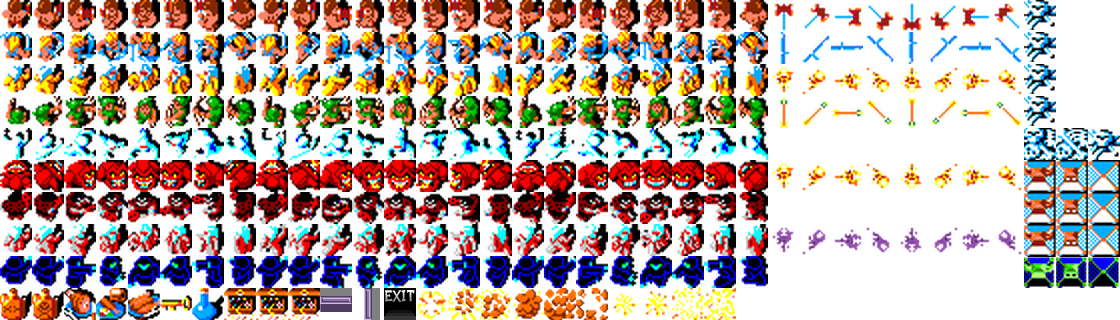
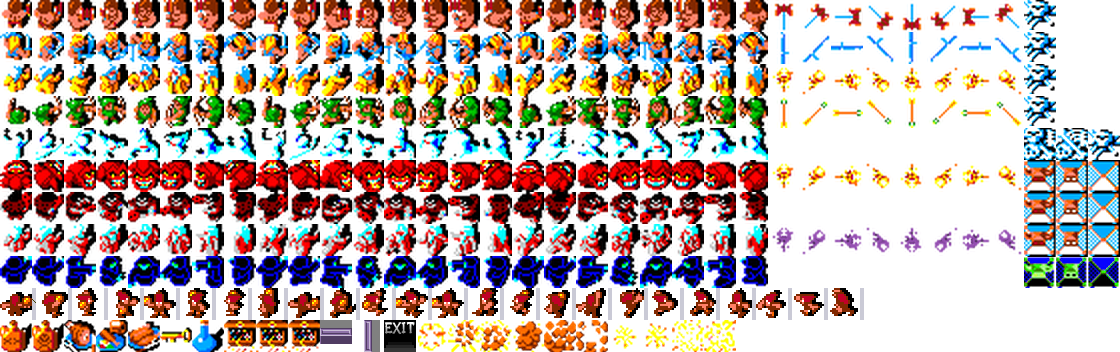
lobber gfx upd 1

diff --git a/js/gauntlet.js b/js/gauntlet.js
@@ -39,27 +39,27 @@ Gauntlet = function() {
         GRUNT:  { sx: 0, sy: 6, frames: 3, fpf: FPS/10, score:  30, health:  8, speed: 120/FPS, damage:  60/FPS, selfharm: 0,      canbeshot: true,  canbehit: true,  invisibility: false,                     travelling: 0.5*FPS, thinking: 0.5*FPS, generator: { health: 16, speed: 3.5*FPS, max: 40, score: 300, sx: 32, sy: 6 }, name: "grunt",  weapon: null                                                                                     },
         WIZARD: { sx: 0, sy: 7, frames: 3, fpf: FPS/10, score:  30, health:  8, speed: 120/FPS, damage:  60/FPS, selfharm: 0,      canbeshot: true,  canbehit: true,  invisibility: { on: 3*FPS, off: 6*FPS }, travelling: 0.5*FPS, thinking: 0.5*FPS, generator: { health: 24, speed: 4.0*FPS, max: 20, score: 400, sx: 32, sy: 7 }, name: "sorcerer", weapon: null                                                                                     },
         DEATH:  { sx: 0, sy: 8, frames: 3, fpf: FPS/10, score: 1000, health: 12, speed: 180/FPS, damage: 120/FPS, selfharm: 6/FPS,  canbeshot: false, canbehit: false, invisibility: false,                     travelling: 0.5*FPS, thinking: 0.5*FPS, generator: { health: 16, speed: 5.0*FPS, max: 10, score: 1000, sx: 32, sy: 8 }, name: "death",  weapon: null                                                                                     },
-        LOBBER: { sx: 0, sy: 7, frames: 3, fpf: FPS/10, score:  10, health:  4, speed: 60/FPS, damage:  40/FPS, selfharm: 0,      canbeshot: true,  canbehit: true,  invisibility: false, travelling: 0.5*FPS, thinking: 0.5*FPS, generator: { health: 8, speed: 2.5*FPS, max: 20, score: 100, sx: 32, sy: 7 }, name: "lobber", weapon: null                                                                                     },
+        LOBBER: { sx: 0, sy: 9, frames: 3, fpf: FPS/10, score:  10, health:  4, speed: 60/FPS, damage:  40/FPS, selfharm: 0,      canbeshot: true,  canbehit: true,  invisibility: false, travelling: 0.5*FPS, thinking: 0.5*FPS, generator: { health: 8, speed: 2.5*FPS, max: 20, score: 100, sx: 32, sy: 7 }, name: "lobber", weapon: null                                                                                     },
         GHOST1:  { sx: 0, sy: 4, frames: 3, fpf: FPS/10, score:  10, health:  4, speed: 140/FPS, damage: 100/FPS, selfharm: 30/FPS, canbeshot: true,  canbehit: false, invisibility: false,                     travelling: 0.5*FPS, thinking: 0.5*FPS, generator: { health:  4, speed: 2.5*FPS, max: 40, score: 50, sx: 34, sy: 4 }, name: "ghost",  weapon: null                                                                                     },
         DEMON1:  { sx: 0, sy: 5, frames: 3, fpf: FPS/10, score:  20, health:  4, speed:  80/FPS, damage:  60/FPS, selfharm: 0,      canbeshot: true,  canbehit: true,  invisibility: false,                     travelling: 0.5*FPS, thinking: 0.5*FPS, generator: { health: 16, speed: 3.0*FPS, max: 40, score: 200, sx: 34, sy: 5 }, name: "demon",  weapon: { speed: 240/FPS, reload: 2*FPS, damage: 10, sx: 24, sy: 5, fpf: FPS/10, monster: true } },
         GRUNT1:  { sx: 0, sy: 6, frames: 3, fpf: FPS/10, score:  30, health:  8, speed: 120/FPS, damage:  60/FPS, selfharm: 0,      canbeshot: true,  canbehit: true,  invisibility: false,                     travelling: 0.5*FPS, thinking: 0.5*FPS, generator: { health: 16, speed: 3.5*FPS, max: 40, score: 300, sx: 34, sy: 6 }, name: "grunt",  weapon: null                                                                                     },
         WIZARD1: { sx: 0, sy: 7, frames: 3, fpf: FPS/10, score:  30, health:  8, speed: 120/FPS, damage:  60/FPS, selfharm: 0,      canbeshot: true,  canbehit: true,  invisibility: { on: 3*FPS, off: 6*FPS }, travelling: 0.5*FPS, thinking: 0.5*FPS, generator: { health: 24, speed: 4.0*FPS, max: 20, score: 400, sx: 34, sy: 7 }, name: "sorcerer", weapon: null                                                                                     },
-        LOBBER1: { sx: 0, sy: 7, frames: 3, fpf: FPS/10, score:  10, health:  4, speed: 60/FPS, damage:  40/FPS, selfharm: 0,      canbeshot: true,  canbehit: true,  invisibility: false, travelling: 0.5*FPS, thinking: 0.5*FPS, generator: { health: 8, speed: 2.5*FPS, max: 20, score: 100, sx: 34, sy: 7 }, name: "lobber", weapon: null                                                                                     },
+        LOBBER1: { sx: 0, sy: 9, frames: 3, fpf: FPS/10, score:  10, health:  4, speed: 60/FPS, damage:  40/FPS, selfharm: 0,      canbeshot: true,  canbehit: true,  invisibility: false, travelling: 0.5*FPS, thinking: 0.5*FPS, generator: { health: 8, speed: 2.5*FPS, max: 20, score: 100, sx: 34, sy: 7 }, name: "lobber", weapon: null                                                                                     },
         GHOST2:  { sx: 0, sy: 4, frames: 3, fpf: FPS/10, score:  10, health:  4, speed: 140/FPS, damage: 100/FPS, selfharm: 30/FPS, canbeshot: true,  canbehit: false, invisibility: false,                     travelling: 0.5*FPS, thinking: 0.5*FPS, generator: { health:  4, speed: 2.5*FPS, max: 40, score: 50, sx: 33, sy: 4 }, name: "ghost",  weapon: null                                                                                     },
         DEMON2:  { sx: 0, sy: 5, frames: 3, fpf: FPS/10, score:  20, health:  4, speed:  80/FPS, damage:  60/FPS, selfharm: 0,      canbeshot: true,  canbehit: true,  invisibility: false,                     travelling: 0.5*FPS, thinking: 0.5*FPS, generator: { health: 16, speed: 3.0*FPS, max: 40, score: 200, sx: 33, sy: 5 }, name: "demon",  weapon: { speed: 240/FPS, reload: 2*FPS, damage: 10, sx: 24, sy: 5, fpf: FPS/10, monster: true } },
         GRUNT2:  { sx: 0, sy: 6, frames: 3, fpf: FPS/10, score:  30, health:  8, speed: 120/FPS, damage:  60/FPS, selfharm: 0,      canbeshot: true,  canbehit: true,  invisibility: false,                     travelling: 0.5*FPS, thinking: 0.5*FPS, generator: { health: 16, speed: 3.5*FPS, max: 40, score: 300, sx: 33, sy: 6 }, name: "grunt",  weapon: null                                                                                     },
         WIZARD2: { sx: 0, sy: 7, frames: 3, fpf: FPS/10, score:  30, health:  8, speed: 120/FPS, damage:  60/FPS, selfharm: 0,      canbeshot: true,  canbehit: true,  invisibility: { on: 3*FPS, off: 6*FPS }, travelling: 0.5*FPS, thinking: 0.5*FPS, generator: { health: 24, speed: 4.0*FPS, max: 20, score: 400, sx: 33, sy: 7 }, name: "sorcerer", weapon: null                                                                                     },
-        LOBBER2: { sx: 0, sy: 7, frames: 3, fpf: FPS/10, score:  10, health:  4, speed: 60/FPS, damage:  40/FPS, selfharm: 0,      canbeshot: true,  canbehit: true,  invisibility: false, travelling: 0.5*FPS, thinking: 0.5*FPS, generator: { health: 8, speed: 2.5*FPS, max: 20, score: 100, sx: 33, sy: 7 }, name: "lobber", weapon: null                                                                                     }
+        LOBBER2: { sx: 0, sy: 9, frames: 3, fpf: FPS/10, score:  10, health:  4, speed: 60/FPS, damage:  40/FPS, selfharm: 0,      canbeshot: true,  canbehit: true,  invisibility: false, travelling: 0.5*FPS, thinking: 0.5*FPS, generator: { health: 8, speed: 2.5*FPS, max: 20, score: 100, sx: 33, sy: 7 }, name: "lobber", weapon: null                                                                                     }
       },
       TREASURE = {
-        HEALTH:  { sx: 0, sy: 9, frames: 1, fpf: FPS/10, score:  10, health:  200,   sound: 'food' },
-        POISON:  { sx: 1, sy: 9, frames: 1, fpf: FPS/10, score:   0, damage:  50,   sound: 'potion' },
-        FOOD1:   { sx: 2, sy: 9, frames: 1, fpf: FPS/10, score:  10, health:  200,   sound: 'food'   },
-        FOOD2:   { sx: 3, sy: 9, frames: 1, fpf: FPS/10, score:  10, health:  200,   sound: 'food'   },
-        FOOD3:   { sx: 4, sy: 9, frames: 1, fpf: FPS/10, score:  10, health:  200,   sound: 'food'   },
-        KEY:     { sx: 5, sy: 9, frames: 1, fpf: FPS/10, score:  20, key:    true,  sound: 'key'    },
-        POTION:  { sx: 6, sy: 9, frames: 1, fpf: FPS/10, score:  50, potion: true,  sound: 'potion' },
-        GOLD:    { sx: 7, sy: 9, frames: 3, fpf: FPS/10, score: 100,                sound: 'gold'   }
+        HEALTH:  { sx: 0, sy: 10, frames: 1, fpf: FPS/10, score:  10, health:  200,   sound: 'food' },
+        POISON:  { sx: 1, sy: 10, frames: 1, fpf: FPS/10, score:   0, damage:  50,   sound: 'potion' },
+        FOOD1:   { sx: 2, sy: 10, frames: 1, fpf: FPS/10, score:  10, health:  200,   sound: 'food'   },
+        FOOD2:   { sx: 3, sy: 10, frames: 1, fpf: FPS/10, score:  10, health:  200,   sound: 'food'   },
+        FOOD3:   { sx: 4, sy: 10, frames: 1, fpf: FPS/10, score:  10, health:  200,   sound: 'food'   },
+        KEY:     { sx: 5, sy: 10, frames: 1, fpf: FPS/10, score:  20, key:    true,  sound: 'key'    },
+        POTION:  { sx: 6, sy: 10, frames: 1, fpf: FPS/10, score:  50, potion: true,  sound: 'potion' },
+        GOLD:    { sx: 7, sy: 10, frames: 3, fpf: FPS/10, score: 100,                sound: 'gold'   }
       },
 // after {n} health tics with no player move / fire, all walls are exits
 		WALLSTALL = 200,
@@ -67,18 +67,18 @@ Gauntlet = function() {
 		DOORSTALL = 30,
 		stalling,
       DOOR = {
-        HORIZONTAL: { sx: 10, sy: 9, speed: 0.05*FPS, horizontal: true,  vertical: false, dx: 2, dy: 0 },
-        VERTICAL:   { sx: 11, sy: 9, speed: 0.05*FPS, horizontal: false, vertical: true,  dx: 0, dy: 8 },
-        EXIT:       { sx: 12, sy: 9, speed: 3*FPS, fpf: FPS/30 },
+        HORIZONTAL: { sx: 10, sy: 10, speed: 0.05*FPS, horizontal: true,  vertical: false, dx: 2, dy: 0 },
+        VERTICAL:   { sx: 11, sy: 10, speed: 0.05*FPS, horizontal: false, vertical: true,  dx: 0, dy: 8 },
+        EXIT:       { sx: 12, sy: 10, speed: 3*FPS, fpf: FPS/30 },
       },
       FX = {
-        GENERATOR_DEATH: { sx: 13, sy: 9, frames: 6, fpf: FPS/10 },
-        MONSTER_DEATH:   { sx: 13, sy: 9, frames: 6, fpf: FPS/20 },
-        WEAPON_HIT:      { sx: 19, sy: 9, frames: 2, fpf: FPS/20 },
+        GENERATOR_DEATH: { sx: 13, sy: 10, frames: 6, fpf: FPS/10 },
+        MONSTER_DEATH:   { sx: 13, sy: 10, frames: 6, fpf: FPS/20 },
+        WEAPON_HIT:      { sx: 19, sy: 10, frames: 2, fpf: FPS/20 },
         PLAYER_GLOW:     { frames: FPS/2, border: 5 }
       },
       PLAYERS   = [ PLAYER.WARRIOR, PLAYER.VALKYRIE, PLAYER.WIZARD, PLAYER.ELF ],
-      MONSTERS  = [ MONSTER.GHOST, MONSTER.DEMON, MONSTER.GRUNT, MONSTER.WIZARD, MONSTER.DEATH, MONSTER.LOBBER, MONSTER.GHOST1, MONSTER.DEMON1, MONSTER.GRUNT1, MONSTER.WIZARD1, MONSTER.LOBBER1 ],
+      MONSTERS  = [ MONSTER.GHOST, MONSTER.DEMON, MONSTER.GRUNT, MONSTER.WIZARD, MONSTER.DEATH, MONSTER.LOBBER, MONSTER.GHOST1, MONSTER.DEMON1, MONSTER.GRUNT1, MONSTER.WIZARD1, MONSTER.LOBBER1, MONSTER.GHOST2, MONSTER.DEMON2, MONSTER.GRUNT2, MONSTER.WIZARD2, MONSTER.LOBBER2 ],
       TREASURES = [ TREASURE.HEALTH, TREASURE.POISON, TREASURE.FOOD1, TREASURE.FOOD2, TREASURE.FOOD3, TREASURE.KEY, TREASURE.POTION, TREASURE.GOLD ],
       CBOX = {
         FULL:    { x: 0,      y: 0,      w: TILE,   h: TILE          },
@@ -136,7 +136,8 @@ Gauntlet = function() {
         RESET:      Game.qsBool("reset"),
         GRID:       Game.qsBool("grid"),
 /// RESTORE !
-        NOMONSTERS: 1, //: Game.qsBool("nomonsters"),
+        NOMONSTERS: Game.qsBool("nomonsters"),
+//        NOMONSTERS: 1, //: Game.qsBool("nomonsters"),
         NODAMAGE:   Game.qsBool("nodamage"),
         NOAUTOHURT: Game.qsBool("noautohurt"),
         POTIONS:    Game.qsNumber("potions"),
